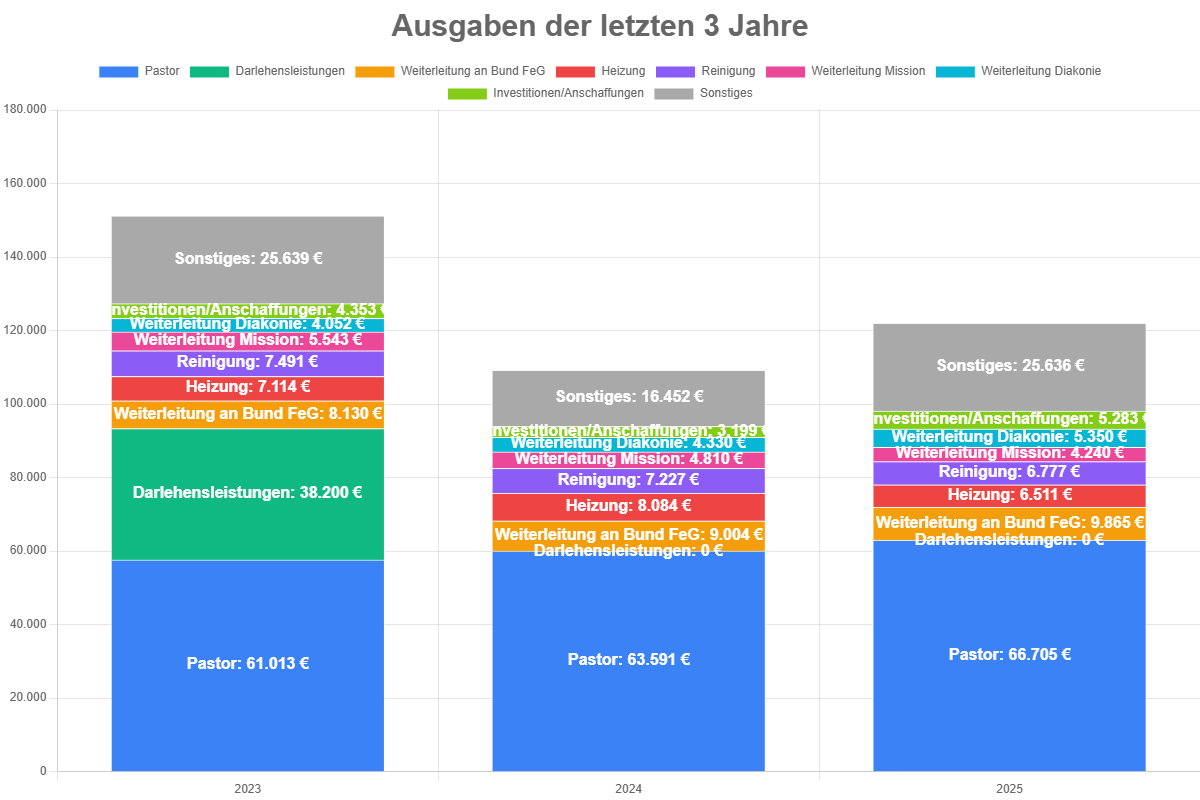
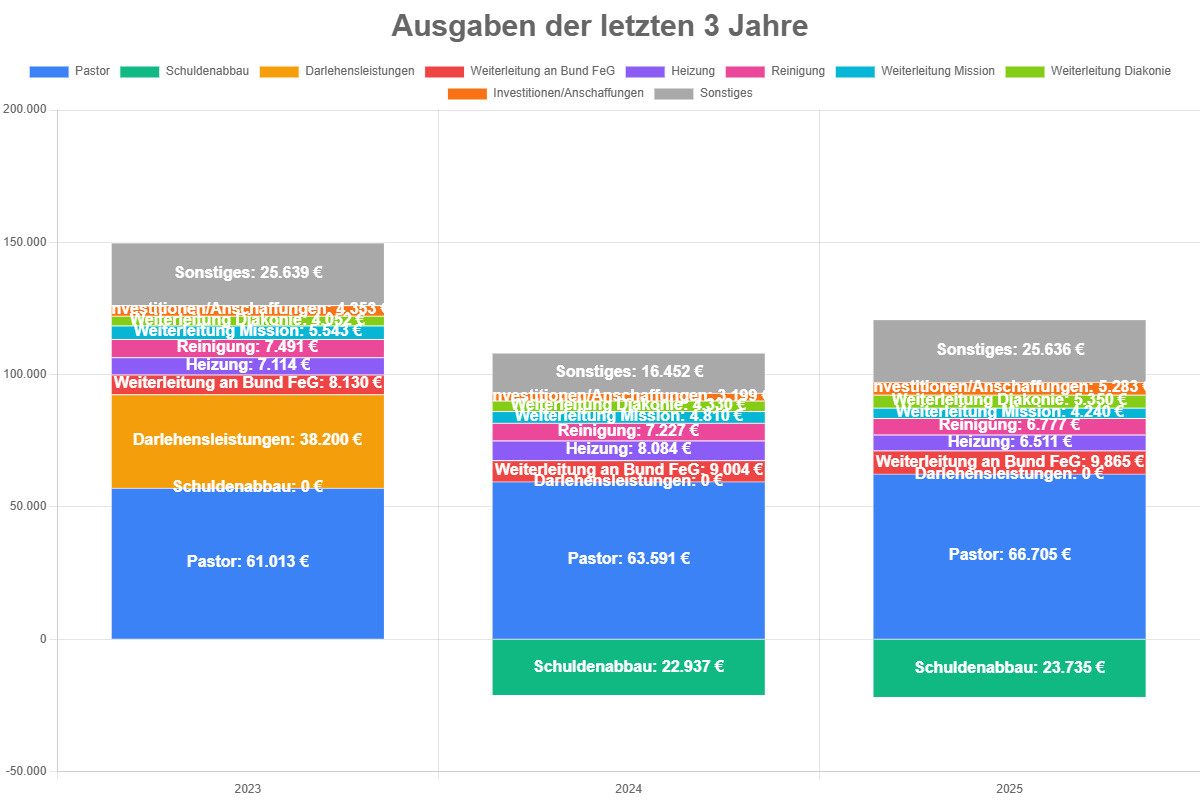
fix: zeigt den Schuldenabbau wieder an

diff --git a/lib/charts.js b/lib/charts.js
@@ -3,7 +3,7 @@
 import fs from 'fs';
 import path from 'path';
 import { fileURLToPath } from 'url';
-import { readCSV, extractExpenses, ensureResultDirectory, readProfitLossReports, extractIncome, COLORS } from './utils.js';
+import { readCSV, extractExpenses, ensureResultDirectory, readProfitLossReports, extractIncome, readBalanceReports, extractAccountBalances, COLORS } from './utils.js';
 import QuickChart from 'quickchart-js';
 
 // __dirname replacement for ES modules
@@ -98,6 +98,31 @@ async function generateAusgabenJson(currentYear) {
     const outputPath = path.join(process.cwd(), 'Daten', 'result', outputFileName);
     
     try {
+        // insert Schuldenabbau (debt delta) computed from Bilanzberichte
+        try {
+            const balanceReports = readBalanceReports();
+            const yrs = Object.keys(outputData).sort();
+            let prevSum = null;
+            for (const y of yrs) {
+                const bal = extractAccountBalances(balanceReports[y] || []);
+                let sum = 0;
+                Object.entries(bal || {}).forEach(([k,v]) => {
+                    const key = String(k || '').toLowerCase();
+                    if (key.includes('darleh') || key.includes('privatdarlehen')) sum += Math.abs(Number(v) || 0);
+                });
+                if (prevSum === null) {
+                    outputData[y]['Schuldenabbau'] = 0;
+                } else {
+                    const delta = Number((sum - prevSum).toFixed(2));
+                    // delta negative when debt decreased -> record as negative
+                    outputData[y]['Schuldenabbau'] = delta;
+                }
+                prevSum = sum;
+            }
+        } catch (e) {
+            try { fs.appendFileSync(path.join(process.cwd(), 'debug.log'), `[charts] Fehler beim Berechnen Schuldenabbau: ${e.message}\n`); } catch (ee) {}
+        }
+
         fs.writeFileSync(outputPath, JSON.stringify(outputData, null, 2), 'utf8');
         fs.appendFileSync(path.join(process.cwd(), 'debug.log'), `[charts] JSON data saved to ${outputPath}\n`);
     } catch (e) {

diff --git a/Daten/result/Ausgaben_2025.html b/Daten/result/Ausgaben_2025.html
@@ -18,13 +18,25 @@
       "stack": "stack1"
     },
     {
+      "label": "Schuldenabbau",
+      "data": [
+        0,
+        -22936.51,
+        -23735.31
+      ],
+      "backgroundColor": "#10B981",
+      "borderColor": "#ffffff",
+      "borderWidth": 1,
+      "stack": "stack1"
+    },
+    {
       "label": "Darlehensleistungen",
       "data": [
         38200,
         0,
         0
       ],
-      "backgroundColor": "#10B981",
+      "backgroundColor": "#F59E0B",
       "borderColor": "#ffffff",
       "borderWidth": 1,
       "stack": "stack1"
@@ -36,7 +48,7 @@
         9004,
         9865
       ],
-      "backgroundColor": "#F59E0B",
+      "backgroundColor": "#EF4444",
       "borderColor": "#ffffff",
       "borderWidth": 1,
       "stack": "stack1"
@@ -48,7 +60,7 @@
         8084,
         6511
       ],
-      "backgroundColor": "#EF4444",
+      "backgroundColor": "#8B5CF6",
       "borderColor": "#ffffff",
       "borderWidth": 1,
       "stack": "stack1"
@@ -60,7 +72,7 @@
         7227,
         6777
       ],
-      "backgroundColor": "#8B5CF6",
+      "backgroundColor": "#EC4899",
       "borderColor": "#ffffff",
       "borderWidth": 1,
       "stack": "stack1"
@@ -72,7 +84,7 @@
         4810,
         4240
       ],
-      "backgroundColor": "#EC4899",
+      "backgroundColor": "#06B6D4",
       "borderColor": "#ffffff",
       "borderWidth": 1,
       "stack": "stack1"
@@ -84,7 +96,7 @@
         4330,
         5350
       ],
-      "backgroundColor": "#06B6D4",
+      "backgroundColor": "#84CC16",
       "borderColor": "#ffffff",
       "borderWidth": 1,
       "stack": "stack1"
@@ -96,7 +108,7 @@
         3199,
         5283
       ],
-      "backgroundColor": "#84CC16",
+      "backgroundColor": "#F97316",
       "borderColor": "#ffffff",
       "borderWidth": 1,
       "stack": "stack1"
